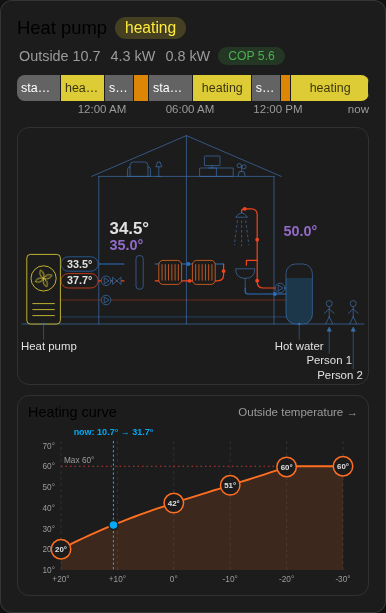
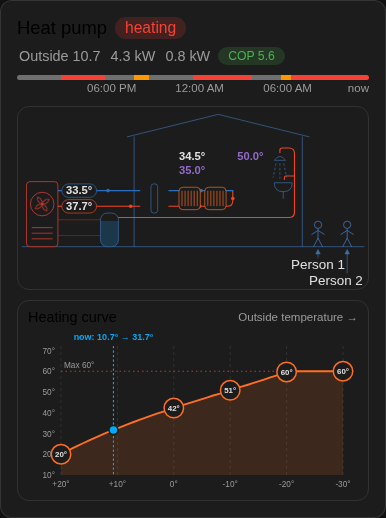
card: tank between heat pump and house, outlined chips, bigger people
- Small hot water tank between the heat pump and the house; heating pipes
  run above it, hot water leaves it along the floor to the bathroom at the
  right end of the house
- No divider line in the house; people at home stand on the floor
- Heat pump flow/return as outlined chips again; hot water values inside
  the house next to the bathroom
- No text labels for heat pump and hot water; people bigger (figures 46
  high, names 24) with a slightly wider yard
- Diagram about 20 % lower; status bar 5 px
- README and screenshots updated

diff --git a/custom_components/open3e_gateway/www/open3e-heatpump-card.js b/custom_components/open3e_gateway/www/open3e-heatpump-card.js
@@ -70,7 +70,7 @@ const TEXT = {
   de: {
     title: "Wärmepumpe", circuit: "Heizkreis", compressor: "Verdichter", flow_target: "Vorlauf-Soll",
     flow_hk: "HK Vorlauf Ist/Soll", flow_wp: "WP Vorlauf", return: "Rücklauf", level: "Niveau", dhw: "Warmwasser Ist/Soll", today: "Ø heute",
-    schema: "Anlagenschema", person: "Person", lbl_hp: "Wärmepumpe", lbl_dhw: "Warmwasser", lbl_buffer: "Pufferspeicher", lbl_sep: "Hydr. Weiche",
+    schema: "Anlagenschema", person: "Person",
     curve: "Heizkurve", outside_axis: "Außentemperatur", max: "Max", now_word: "jetzt",
     slope: "Neigung",
     save: "Speichern", cancel: "Abbrechen",
@@ -84,7 +84,7 @@ const TEXT = {
   en: {
     title: "Heat pump", circuit: "Heating circuit", compressor: "Compressor", flow_target: "Flow target",
     flow_hk: "Circuit flow act/target", flow_wp: "Heat pump flow", return: "Return", level: "Curve level", dhw: "Hot water act/target", today: "today",
-    schema: "System diagram", person: "Person", lbl_hp: "Heat pump", lbl_dhw: "Hot water", lbl_buffer: "Buffer tank", lbl_sep: "Hydr. separator",
+    schema: "System diagram", person: "Person",
     curve: "Heating curve", outside_axis: "Outside temperature", max: "Max", now_word: "now",
     slope: "slope",
     save: "Save", cancel: "Cancel",
@@ -260,15 +260,14 @@ class Open3eHeatpumpCard extends HTMLElement {
     this._draft = dr; this._sig = null; this._render();
   }
 
-  // System diagram in the style of a house cross-section (line art). Outside on the left: the hot
-  // water tank and the air source heat pump (fan spins while the compressor runs). The hot water
-  // loop runs from the heat pump to the tank on the left, the heating loop to the house on the right:
-  // hydraulic separator / buffer tank (or nothing) and two radiators. Hot water goes from the tank
-  // to the bathroom (shower, tap over the sink); it does not come back. Two people at the house.
-  // Only the active loop is animated (dots travel along the pipes: flow red, return blue); idle
-  // pipes stay coloured but fainter. All temperatures use one text style: actual in the text
-  // colour, target in purple. The heat pump's own flow/return (268/269) sit on the pipes next to
-  // the unit at the active loop. The hot water values show only the target while no hot water is made.
+  // System diagram in the style of a house cross-section (line art). Outside, left to right: the air
+  // source heat pump (fan spins while the compressor runs), its flow/return (268/269) as outlined chips
+  // on the active loop, and a small hot water tank. The heating loop runs above the tank into the house:
+  // hydraulic separator / buffer tank (or nothing) and two radiators. Hot water leaves the tank along
+  // the floor and rises to the bathroom at the right end (shower, tap over the sink); it does not come
+  // back. Two people at the house. Only the active loop is animated (dots travel along the pipes: flow
+  // red, return blue); idle pipes stay coloured but fainter. Actual values in the text colour, targets
+  // in purple; the hot water values show only the target while no hot water is made.
   _schematic() {
     if (this._config.temp_bar === false) return "";
     const t = this._t();
@@ -302,17 +301,18 @@ class Open3eHeatpumpCard extends HTMLElement {
         <animateMotion dur="${dur.toFixed(2)}s" begin="-${((dur / n) * i).toFixed(2)}s" repeatCount="indefinite" path="${d}"/></circle>`).join("") : "";
       return `<path d="${d}" fill="none" stroke="${color}" stroke-width="2" stroke-linecap="round" opacity="${on ? 1 : 0.35}"/>${dots}`;
     };
-    // Temperature on a pipe: plain text just above the line.
-    const onPipe = (x, y, v, tile) => `<text x="${x}" y="${y - 6}" text-anchor="middle" class="tv${this._id(tile) ? " click" : ""}"
-      data-entity="${esc(this._id(tile))}">${esc(deg(v))}</text>`;
+    // Temperature on a pipe: outlined chip in the pipe colour.
+    const chip = (x, y, v, color, tile) => {
+      const text = deg(v), w = Math.max(50, text.length * 10 + 12);
+      return `<g class="${this._id(tile) ? "click" : ""}" data-entity="${esc(this._id(tile))}">
+        <rect x="${x - w / 2}" y="${y - 12}" width="${w}" height="24" rx="12" fill="${BG}" stroke="${color}" stroke-width="1.2"/>
+        <text x="${x}" y="${y + 6}" text-anchor="middle" class="tv">${esc(text)}</text></g>`;
+    };
     const radiator = (x, y, w, h, color) => {
       const fins = Array.from({ length: 6 }, (_, i) => { const fx = x + (w / 7) * (i + 1); return `M${fx},${y + 7} V${y + h - 7}`; }).join(" ");
       return `<rect x="${x}" y="${y}" width="${w}" height="${h}" rx="7" fill="${BG}" stroke="${color}" stroke-width="1.2"/><path d="${fins}" fill="none" stroke="${color}" stroke-width="1.2" stroke-linecap="round"/>`;
     };
-    const W = 570, fit = (x, text, px = 9.5) => Math.min(W - 2 - (String(text).length * px) / 2, Math.max(2 + (String(text).length * px) / 2, x));
-    // Callout: dot on the part, line down, label below.
-    const callout = (x, y0, text, len = 26) => `<g class="callout"><circle cx="${x}" cy="${y0}" r="2" fill="${LINE}"/>
-      <line x1="${x}" x2="${x}" y1="${y0}" y2="${y0 + len}" stroke="${LINE}" stroke-width="1"/><text x="${fit(x, text)}" y="${y0 + len + 18}" text-anchor="middle">${esc(text)}</text></g>`;
+    const W = 610, fit = (x, text, px = 9.5) => Math.min(W - 2 - (String(text).length * px) / 2, Math.max(2 + (String(text).length * px) / 2, x));
     // Two figures standing on the ground with a name below and an arrow pointing at them. With a
     // device tracker (`personN_tracker`) a figure stands in the living room while its tracker is
     // `home` and in the yard otherwise; without a tracker it stays in the yard.
@@ -322,24 +322,27 @@ class Open3eHeatpumpCard extends HTMLElement {
       const home = st?.state === "home";
       const name = String(this._config[`person${n}_name`] || st?.attributes?.friendly_name || `${t.person} ${n}`).slice(0, 12);
       const color = st ? (home ? C.ok : C.off) : LINE;
-      const x = home ? (n === 1 ? 484 : 506) : (n === 1 ? 540 : 562), f = 296, tip = f + 5, ty = n === 1 ? 362 : 388;
-      return `<g class="${eid ? "click" : ""}" data-entity="${esc(eid)}" stroke="${color}" fill="none" stroke-width="1.2" stroke-linecap="round" stroke-linejoin="round">
-        <circle cx="${x}" cy="${f - 34}" r="5"/>
-        <path d="M${x},${f - 29} V${f - 12} M${x - 8},${f - 18} L${x},${f - 25} L${x + 8},${f - 18} M${x},${f - 12} L${x - 6},${f} M${x},${f - 12} L${x + 6},${f}"/>
-        <line x1="${x}" x2="${x}" y1="${ty - 17}" y2="${tip + 7}" stroke-width="1"/>
-        <polygon points="${x - 3.5},${tip + 7} ${x + 3.5},${tip + 7} ${x},${tip}" fill="${color}" stroke-width="1"/>
-        <text x="${fit(x, name)}" y="${ty}" text-anchor="middle" class="pn" stroke="none">${esc(name)}</text></g>`;
+      // Figure 46 high (head top y 250, just below the hot water line at 244), names in two rows.
+      const x = home ? (n === 1 ? 270 : 340) : (n === 1 ? 528 : 580), f = 296, tip = f + 5, ty = n === 1 ? 336 : 364;
+      return `<g class="${eid ? "click" : ""}" data-entity="${esc(eid)}" stroke="${color}" fill="none" stroke-width="1.6" stroke-linecap="round" stroke-linejoin="round">
+        <circle cx="${x}" cy="${f - 39}" r="6.5"/>
+        <path d="M${x},${f - 32} V${f - 15} M${x - 11},${f - 22} L${x},${f - 29} L${x + 11},${f - 22} M${x},${f - 15} L${x - 8},${f} M${x},${f - 15} L${x + 8},${f}"/>
+        <line x1="${x}" x2="${x}" y1="${ty - 21}" y2="${tip + 8}" stroke-width="1.2"/>
+        <polygon points="${x - 4},${tip + 8} ${x + 4},${tip + 8} ${x},${tip}" fill="${color}" stroke-width="1"/>
+        <text x="${fit(x, name, 12)}" y="${ty}" text-anchor="middle" class="pn" stroke="none">${esc(name)}</text></g>`;
     };
     const people = this._config.show_people === false ? "" : person(1) + person(2);
     const vals = (x, y, act, set, actTile, setTile, targetOnly = false) => `
       ${targetOnly && set !== null ? "" : `<text x="${x}" y="${y}" class="tv click" data-entity="${esc(this._id(actTile))}">${esc(deg(act))}</text>`}
       ${set !== null ? `<text x="${x}" y="${targetOnly ? y : y + 24}" class="tv tgt click" data-entity="${esc(this._id(setTile))}">${esc(deg(set))}</text>` : ""}`;
 
-    // Layout: tank 4–48 and heat pump 112–168 outside, house 232–520 (bathroom | living room),
-    // ground line y 296. Heating lanes right of the heat pump, hot water lanes left of it.
-    const TX = 4, HPL = 112, HPR = 168, HL = 232, HRW = 520, DV = 352, EAVE = 70, APEX = 12;
-    const HR = 196, HF = 224, WF = 232, WR = 276, SX = 268, END = 462, RX = 340, SUP = 84;
-    const ridge = (HL + HRW) / 2, roofAt = (x) => APEX + ((EAVE - APEX) * Math.abs(x - ridge)) / (ridge - HL + 12);
+    // Layout (left to right): heat pump 8–64, its flow/return chips, small hot water tank 140–172,
+    // house 200–500 (buffer, radiators, bathroom at the right end), yard. Ground line y 296.
+    // Heating lanes run above the tank into the house; the hot water lanes end in the tank. Hot water
+    // leaves the tank along the floor (y 244) and rises to the bathroom.
+    const HPL = 8, HPR = 64, CX = 102, TX = 140, TW = 32, TY = 236, TH = 60, HL = 200, HRW = 500, EAVE = 100, APEX = 60;
+    const HR = 196, HF = 224, WF = 248, WR = 276, SY = 244, SX = 236, END = 376, RX = 486, RT = 120;
+    const ridge = (HL + HRW) / 2;
     let heat;
     if (storage === "none") {
       heat = `${pipe(`${HPR},${HF} ${END},${HF} ${END},${HR}`, FLOW, heatOn)}${pipe(`${END},${HR} ${HPR},${HR}`, RET, heatOn)}`;
@@ -349,9 +352,9 @@ class Open3eHeatpumpCard extends HTMLElement {
         ${pipe(`${END},${HR} ${sx1},${HR}`, RET, heatOn)}${pipe(`${sx0},${HR} ${HPR},${HR}`, RET, heatOn)}`;
       heat += storage === "buffer"
         ? `<g class="${this._id("buffer") ? "click" : ""}" data-entity="${esc(this._id("buffer"))}">
-            <rect x="${sx0}" y="180" width="52" height="60" rx="14" fill="${BG}" stroke="${LINE}" stroke-width="1.2"/>
+            <rect x="${sx0}" y="182" width="52" height="56" rx="14" fill="${BG}" stroke="${LINE}" stroke-width="1.2"/>
             ${buf !== null ? `<text x="${SX}" y="217" text-anchor="middle" class="tv">${esc(deg(buf))}</text>` : ""}</g>`
-        : `<rect x="${SX - 6}" y="182" width="12" height="56" rx="5" fill="${BG}" stroke="${LINE}" stroke-width="1.2"/>`;
+        : `<rect x="${SX - 6}" y="184" width="12" height="52" rx="5" fill="${BG}" stroke="${LINE}" stroke-width="1.2"/>`;
     }
     // Tank fill: empty 15 K below the target, full at the target; purple once reached.
     const fill = tv !== null && tset !== null ? Math.min(1, Math.max(0.08, (tv - (tset - 15)) / 15)) : 0;
@@ -359,32 +362,32 @@ class Open3eHeatpumpCard extends HTMLElement {
     const petals = [0, 90, 180, 270].map((a) => `<path d="M0,0 Q-6,-8 0,-15 Q6,-8 0,0" transform="rotate(${a})"/>`).join("");
     const dhwId = esc(this._id("dhw_set") || this._id("dhw"));
     return `<div class="schema">
-      <svg viewBox="0 4 570 394" role="img" aria-label="${esc(t.schema)}">
-        <defs><clipPath id="o3e-tank"><rect x="${TX}" y="196" width="44" height="100" rx="16"/></clipPath></defs>
+      <svg viewBox="0 54 610 318" role="img" aria-label="${esc(t.schema)}">
+        <defs><clipPath id="o3e-tank"><rect x="${TX}" y="${TY}" width="${TW}" height="${TH}" rx="12"/></clipPath></defs>
         <g class="sc">
-          <path d="M${HL},296 V${EAVE} M${HRW},${EAVE} V296 M${HL - 12},${EAVE} L${ridge},${APEX} L${HRW + 12},${EAVE} M${DV},${roofAt(DV)} V296"/>
-          <line x1="0" x2="570" y1="296" y2="296"/>
+          <path d="M${HL},296 V${EAVE} M${HRW},${EAVE} V296 M${HL - 12},${EAVE} L${ridge},${APEX} L${HRW + 12},${EAVE}"/>
+          <line x1="0" x2="610" y1="296" y2="296"/>
         </g>
         ${heat}
-        ${pipe(`${HPL},${WF} ${TX + 44},${WF}`, FLOW, dhwOn)}
-        ${pipe(`${TX + 44},${WR} ${HPL},${WR}`, RET, dhwOn)}
-        ${pipe(`${TX + 22},196 ${TX + 22},${SUP} ${RX},${SUP} ${RX},${SUP + 66} ${RX - 18},${SUP + 66} ${RX - 18},${SUP + 72}`, FLOW, true, false)}
-        ${pipe(`${RX - 26},${SUP} ${RX - 26},${SUP + 8}`, FLOW, true, false)}
+        ${pipe(`${HPR},${WF} ${TX},${WF}`, FLOW, dhwOn)}
+        ${pipe(`${TX},${WR} ${HPR},${WR}`, RET, dhwOn)}
+        ${pipe(`${TX + TW},${SY} ${RX},${SY} ${RX},${RT} ${RX - 26},${RT} ${RX - 26},${RT + 8}`, FLOW, true, false)}
+        ${pipe(`${RX},${RT + 50} ${RX - 18},${RT + 50} ${RX - 18},${RT + 56}`, FLOW, true, false)}
         <g class="click" data-entity="${dhwId}">
-          <rect x="${TX}" y="196" width="44" height="100" rx="16" fill="${BG}" stroke="${dhwOn ? C.dhw : LINE}" stroke-width="1.2"/>
-          ${fill > 0 ? `<rect x="${TX}" y="${196 + 100 * (1 - fill)}" width="44" height="${100 * fill}" clip-path="url(#o3e-tank)"
+          <rect x="${TX}" y="${TY}" width="${TW}" height="${TH}" rx="12" fill="${BG}" stroke="${dhwOn ? C.dhw : LINE}" stroke-width="1.2"/>
+          ${fill > 0 ? `<rect x="${TX}" y="${TY + TH * (1 - fill)}" width="${TW}" height="${TH * fill}" clip-path="url(#o3e-tank)"
             style="fill:color-mix(in srgb, ${fillColor} 22%, transparent)"/>` : ""}
           ${dhwOn ? `<g fill="none" stroke-width="2" stroke-linecap="round" stroke-linejoin="round">
-            <polyline points="${TX + 44},${WF} ${TX + 14},${WF} ${TX + 14},262" stroke="${FLOW}"/>
-            <polyline points="${TX + 14},262 ${TX + 30},262 ${TX + 30},${WR} ${TX + 44},${WR}" stroke="${RET}"/></g>` : ""}
+            <polyline points="${TX},${WF} ${TX + 22},${WF} ${TX + 22},262" stroke="${FLOW}"/>
+            <polyline points="${TX + 22},262 ${TX + 10},262 ${TX + 10},${WR} ${TX},${WR}" stroke="${RET}"/></g>` : ""}
         </g>
         <g class="click" data-entity="${dhwId}" fill="none" stroke="${LINE}" stroke-width="1.2" stroke-linecap="round" stroke-linejoin="round">
-          <path d="M${RX - 36},${SUP + 78} H${RX - 4} Q${RX - 4},${SUP + 94} ${RX - 20},${SUP + 94} Q${RX - 36},${SUP + 94} ${RX - 36},${SUP + 78} Z M${RX - 20},${SUP + 94} V${SUP + 100}"/>
-          <path d="M${RX - 36},${SUP + 20} Q${RX - 26},${SUP + 6} ${RX - 16},${SUP + 20} Z" fill="${BG}"/>
-          <path d="M${RX - 33},${SUP + 26} L${RX - 38},${SUP + 56} M${RX - 26},${SUP + 26} V${SUP + 58} M${RX - 19},${SUP + 26} L${RX - 14},${SUP + 56}" stroke-dasharray="3 5"/>
+          <path d="M${RX - 36},${RT + 62} H${RX - 4} Q${RX - 4},${RT + 78} ${RX - 20},${RT + 78} Q${RX - 36},${RT + 78} ${RX - 36},${RT + 62} Z M${RX - 20},${RT + 78} V${RT + 90}"/>
+          <path d="M${RX - 36},${RT + 22} Q${RX - 26},${RT + 8} ${RX - 16},${RT + 22} Z" fill="${BG}"/>
+          <path d="M${RX - 33},${RT + 28} L${RX - 38},${RT + 52} M${RX - 26},${RT + 28} V${RT + 54} M${RX - 19},${RT + 28} L${RX - 14},${RT + 52}" stroke-dasharray="3 5"/>
         </g>
         <g class="click" data-entity="${esc(this._id("climate") || this._id("flow_hk"))}">
-          ${radiator(366, 190, 38, 40, heatOn ? C.heat : LINE)}${radiator(414, 190, 38, 40, heatOn ? C.heat : LINE)}
+          ${radiator(280, 190, 38, 40, heatOn ? C.heat : LINE)}${radiator(326, 190, 38, 40, heatOn ? C.heat : LINE)}
         </g>
         <g class="click" data-entity="${esc(this._id("compressor"))}">
           <rect x="${HPL}" y="180" width="56" height="116" rx="6" fill="${BG}" stroke="${hpColor}" stroke-width="1.2"/>
@@ -393,11 +396,10 @@ class Open3eHeatpumpCard extends HTMLElement {
           <path d="M${HPL + 10},262 H${HPL + 46} M${HPL + 10},272 H${HPL + 46} M${HPL + 10},282 H${HPL + 46}" stroke="${hpColor}" stroke-width="1.2" stroke-linecap="round"/>
         </g>
         ${dhwOn
-          ? `${onPipe((TX + 44 + HPL) / 2, WF, wp, "flow_wp")}${onPipe((TX + 44 + HPL) / 2, WR, ret, "return")}`
-          : `${onPipe((HPR + HL) / 2, HF, wp, "flow_wp")}${onPipe((HPR + HL) / 2, HR, ret, "return")}`}
-        ${vals(366, 120, hk, target, "flow_hk", "flow_target")}
-        ${vals(56, 160, tv, tset, "dhw", "dhw_set", !dhwOn)}
-        ${callout(HPL + 28, 296, t.lbl_hp)}${callout(TX + 22, 296, t.lbl_dhw, 52)}
+          ? `${chip(CX, WF, wp, FLOW, "flow_wp")}${chip(CX, WR, ret, RET, "return")}`
+          : `${chip(CX, HF, wp, FLOW, "flow_wp")}${chip(CX, HR, ret, RET, "return")}`}
+        ${vals(280, 142, hk, target, "flow_hk", "flow_target")}
+        ${vals(384, 142, tv, tset, "dhw", "dhw_set", !dhwOn)}
         ${people}
       </svg></div>`;
   }
@@ -695,7 +697,7 @@ const STYLE = `
   .click { cursor: pointer; }
   .err { color: var(--error-color, #db4437); padding: 8px; }
   .timeline { margin-bottom: 10px; }
-  .bar { position: relative; height: 8px; border-radius: 4px; overflow: hidden;
+  .bar { position: relative; height: 5px; border-radius: 3px; overflow: hidden;
          background: color-mix(in srgb, var(--disabled-color, #9e9e9e) 15%, transparent); }
   .seg { position: absolute; top: 0; bottom: 0; background: var(--c); }
   .axis { position: relative; height: 14px; margin-top: 2px; font-size: 0.72em; color: var(--secondary-text-color); }
@@ -728,11 +730,10 @@ const STYLE = `
             border: 1px solid color-mix(in srgb, var(--disabled-color, #9e9e9e) 25%, transparent); }
   .schema svg { display: block; width: 100%; height: auto; overflow: visible; }
   .schema .sc { fill: none; stroke: #3d6ea8; stroke-width: 1.2; stroke-linecap: round; stroke-linejoin: round; }
-  .schema .callout text { font-size: 19px; fill: var(--primary-text-color); }
   .schema text { fill: var(--primary-text-color); font-family: inherit; }
   .schema .tv { font-size: 20px; font-weight: 600; }
   .schema .tgt { fill: ${C.target}; }
-  .schema .pn { font-size: 19px; font-weight: 500; }
+  .schema .pn { font-size: 24px; font-weight: 500; }
   .schema foreignObject ha-icon { display: block; }
   .schema .spin { animation: o3e-spin 1.4s linear infinite; }
   @keyframes o3e-spin { to { transform: rotate(360deg); } }

diff --git a/README.md b/README.md
@@ -49,27 +49,29 @@ Header: operating state, outside temperature, heat and electrical power,
 COP now and today's average (from the heat pump's energy counters; the colour
 follows today's value), active errors.
 
-Below the header a thin bar shows the operating state over the last 24 h
+Below the header a thin (5 px) bar shows the operating state over the last 24 h
 (standby and off grey, heating red, hot water orange, electric heater dark
 red; no text in the bar, hover for the times, tap for the history). It reads
 the recorder history, so it needs the `recorder` (on by default) and fills up
 from the time the integration was installed.
 
-The system diagram is a line-art cross-section of the house. Outside on the
-left stand the hot water tank and the air-source heat pump; the fan spins
-while the compressor runs, and the outline is grey when off, red while heating
-and orange while making hot water. The hot water loop runs from the heat pump
-to the tank on its left, the heating loop to the house on its right: a
-hydraulic separator (default), a buffer tank (`storage: buffer`) or nothing
-(`storage: none`), then two radiators. The heat pump's own flow/return
-temperatures (268/269) sit on the pipes of the active loop next to the unit.
-Hot water goes from the tank to the bathroom (shower, tap over the sink); it
-does not come back. The tank fill shows the actual temperature against the
-target (empty 15 K below, purple once reached). Pipes are thin with rounded
-corners; small dots travel along the active loop (flow red, return blue), idle
-pipes stay coloured but faint. All temperatures use the same text size: the
+The system diagram is a line-art cross-section of the house. Outside, from
+left to right: the air-source heat pump (the fan spins while the compressor
+runs; outline grey when off, red while heating, orange while making hot
+water), its flow/return temperatures (268/269) in outlined chips on the pipes
+of the active loop, and a small hot water tank between the heat pump and the
+house. The heating loop runs above the tank into the house: a hydraulic
+separator (default), a buffer tank (`storage: buffer`) or nothing
+(`storage: none`), then two radiators. The hot water loop runs from the heat
+pump into the tank; hot water leaves the tank along the floor and rises to the
+bathroom at the right end of the house (shower, tap over the sink); it does
+not come back. The tank fill shows the actual temperature against the target
+(empty 15 K below, purple once reached). Pipes are thin with rounded corners;
+small dots travel along the active loop (flow red, return blue), idle pipes
+stay coloured but faint. All temperatures use the same text size: the
 actual value in the text colour, the target in purple; while no hot water is
-being made only the hot water target is shown. The buffer shows a temperature
+being made only the hot water target is shown. The hot water values sit inside
+the house next to the bathroom. The buffer shows a temperature
 only if a sensor is available (DID 279, or `entities: {buffer: sensor.x}`).
 Tap a value for its history. With *reduce motion* switched on in the
 OS/browser nothing moves.
@@ -77,7 +79,7 @@ OS/browser nothing moves.
 Two people are drawn with an arrow and a name (default "Person 1" /
 "Person 2"; set `person1_name` / `person2_name`). With a device tracker
 (`person1_tracker` / `person2_tracker`, a `device_tracker.*` entity) a figure
-stands in the living room while its tracker is `home` (green) and in the yard
+stands inside the house while its tracker is `home` (green) and in the yard
 otherwise (grey); tap it for details. Without a tracker it stays in the yard.
 `show_people: false` hides them.
 
